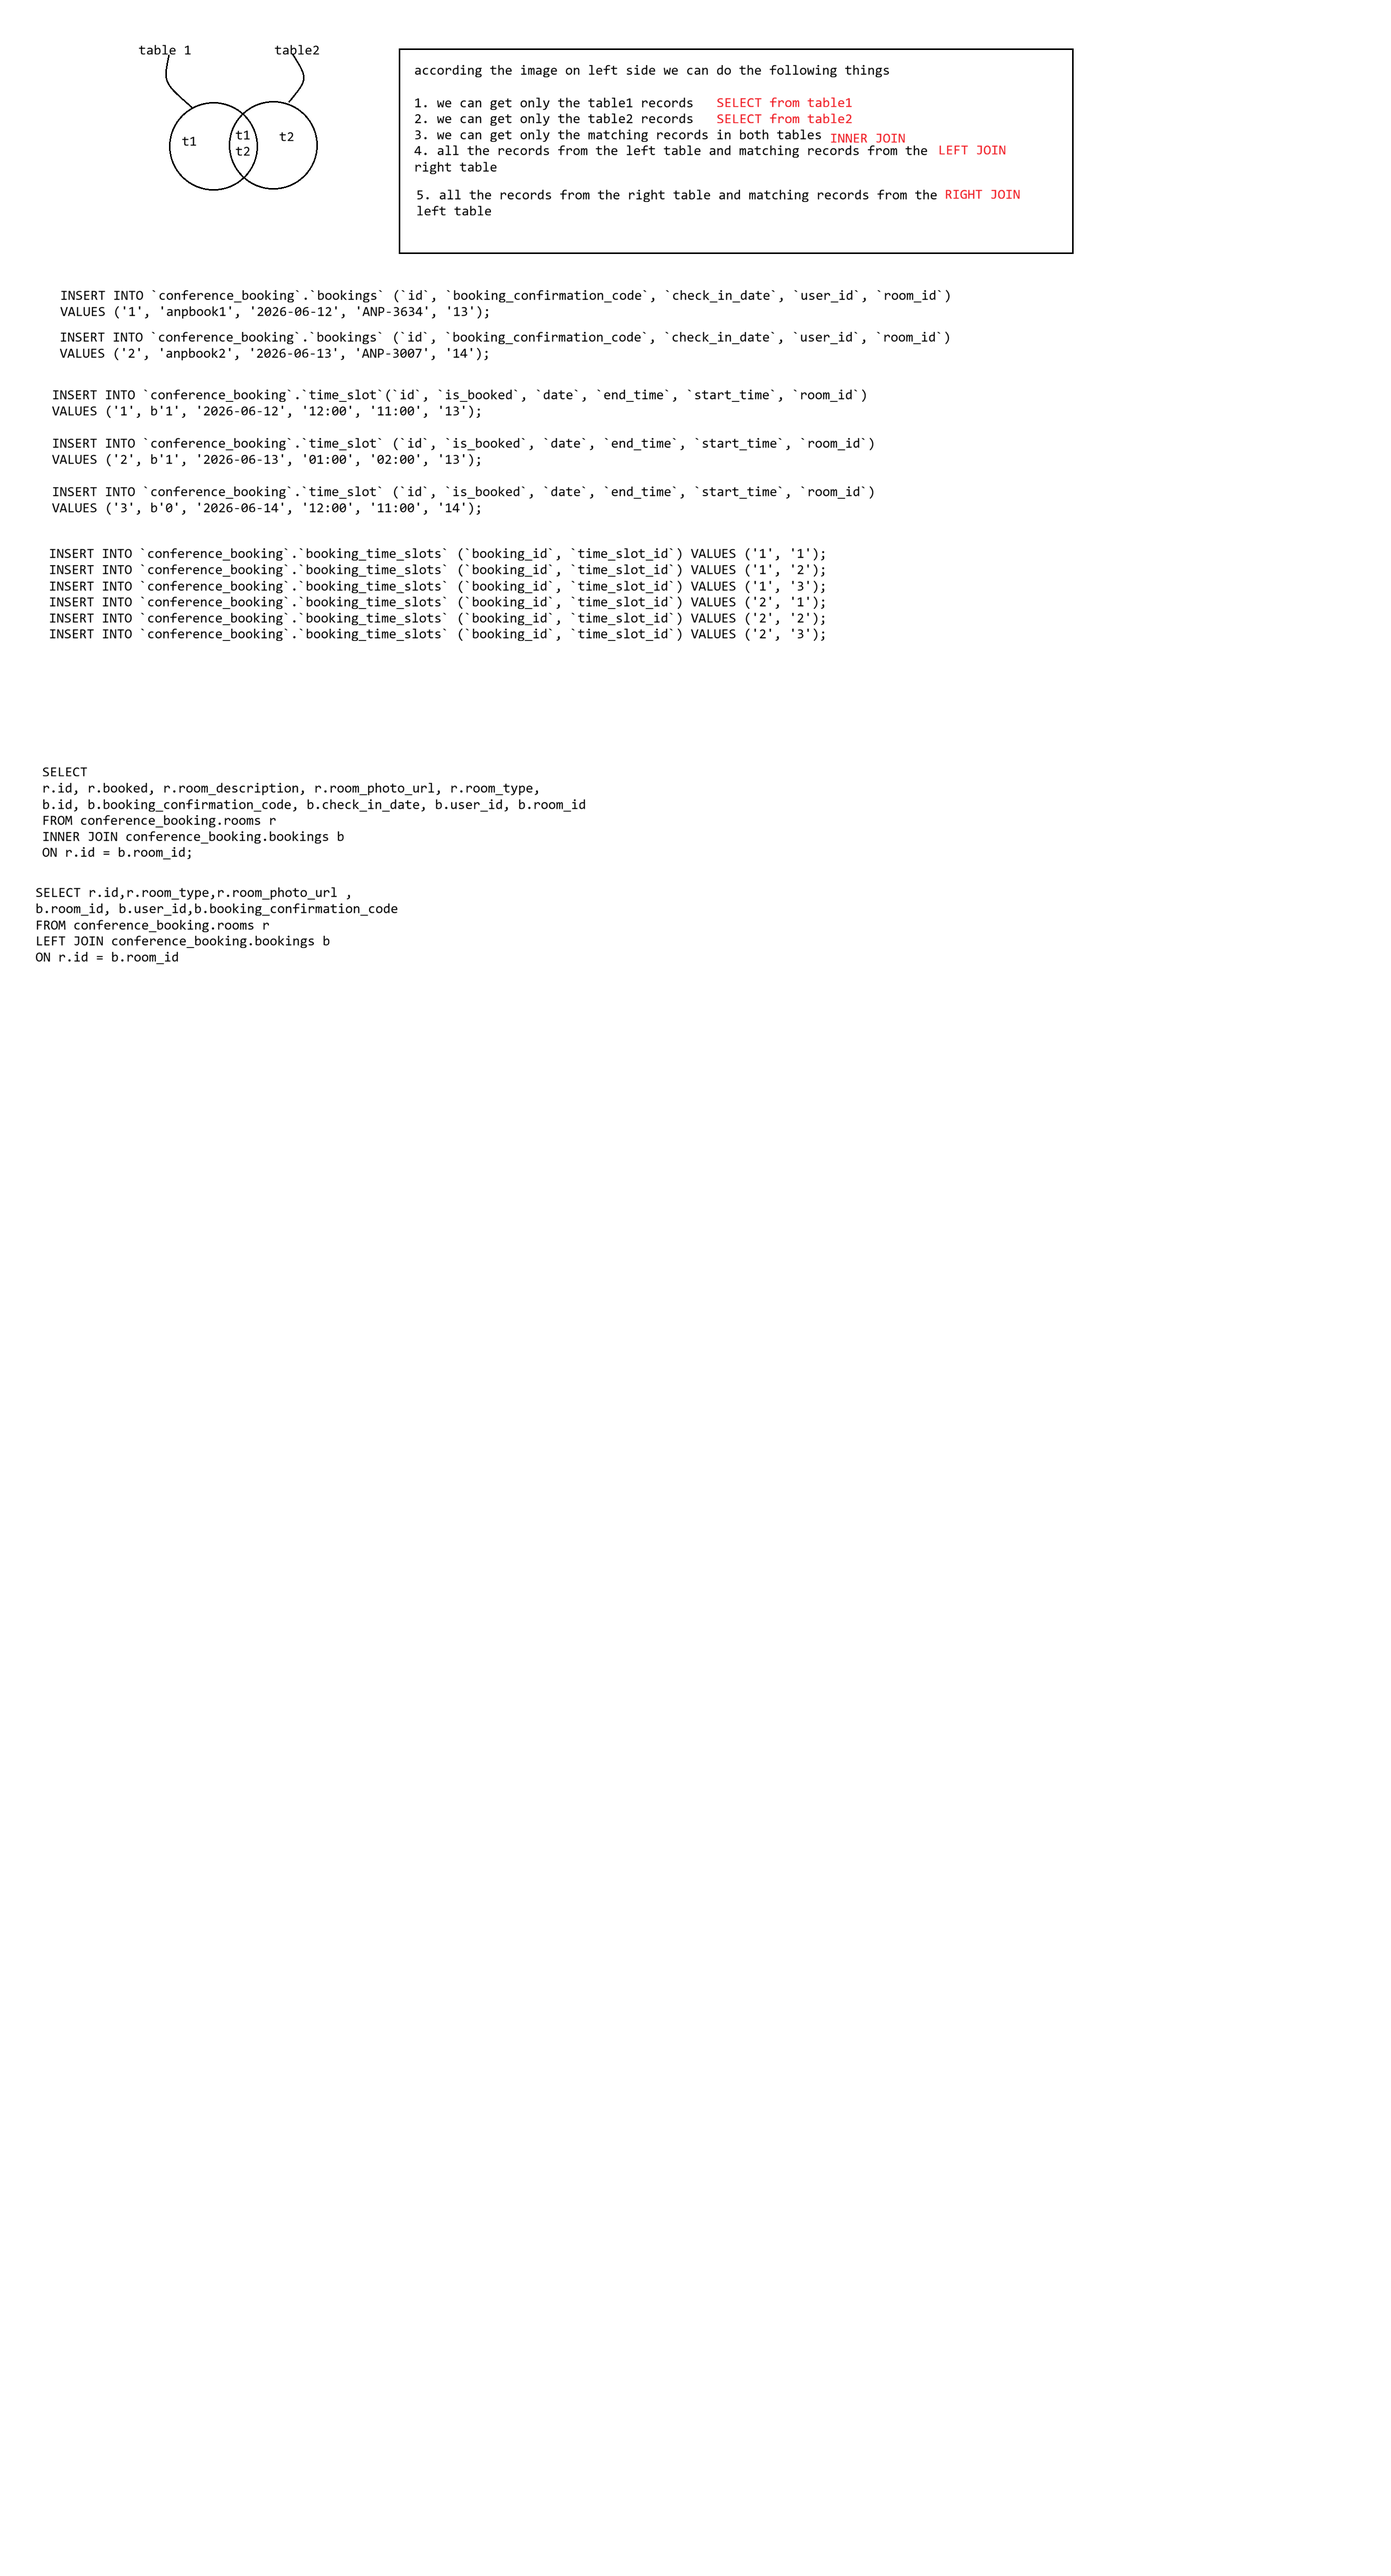
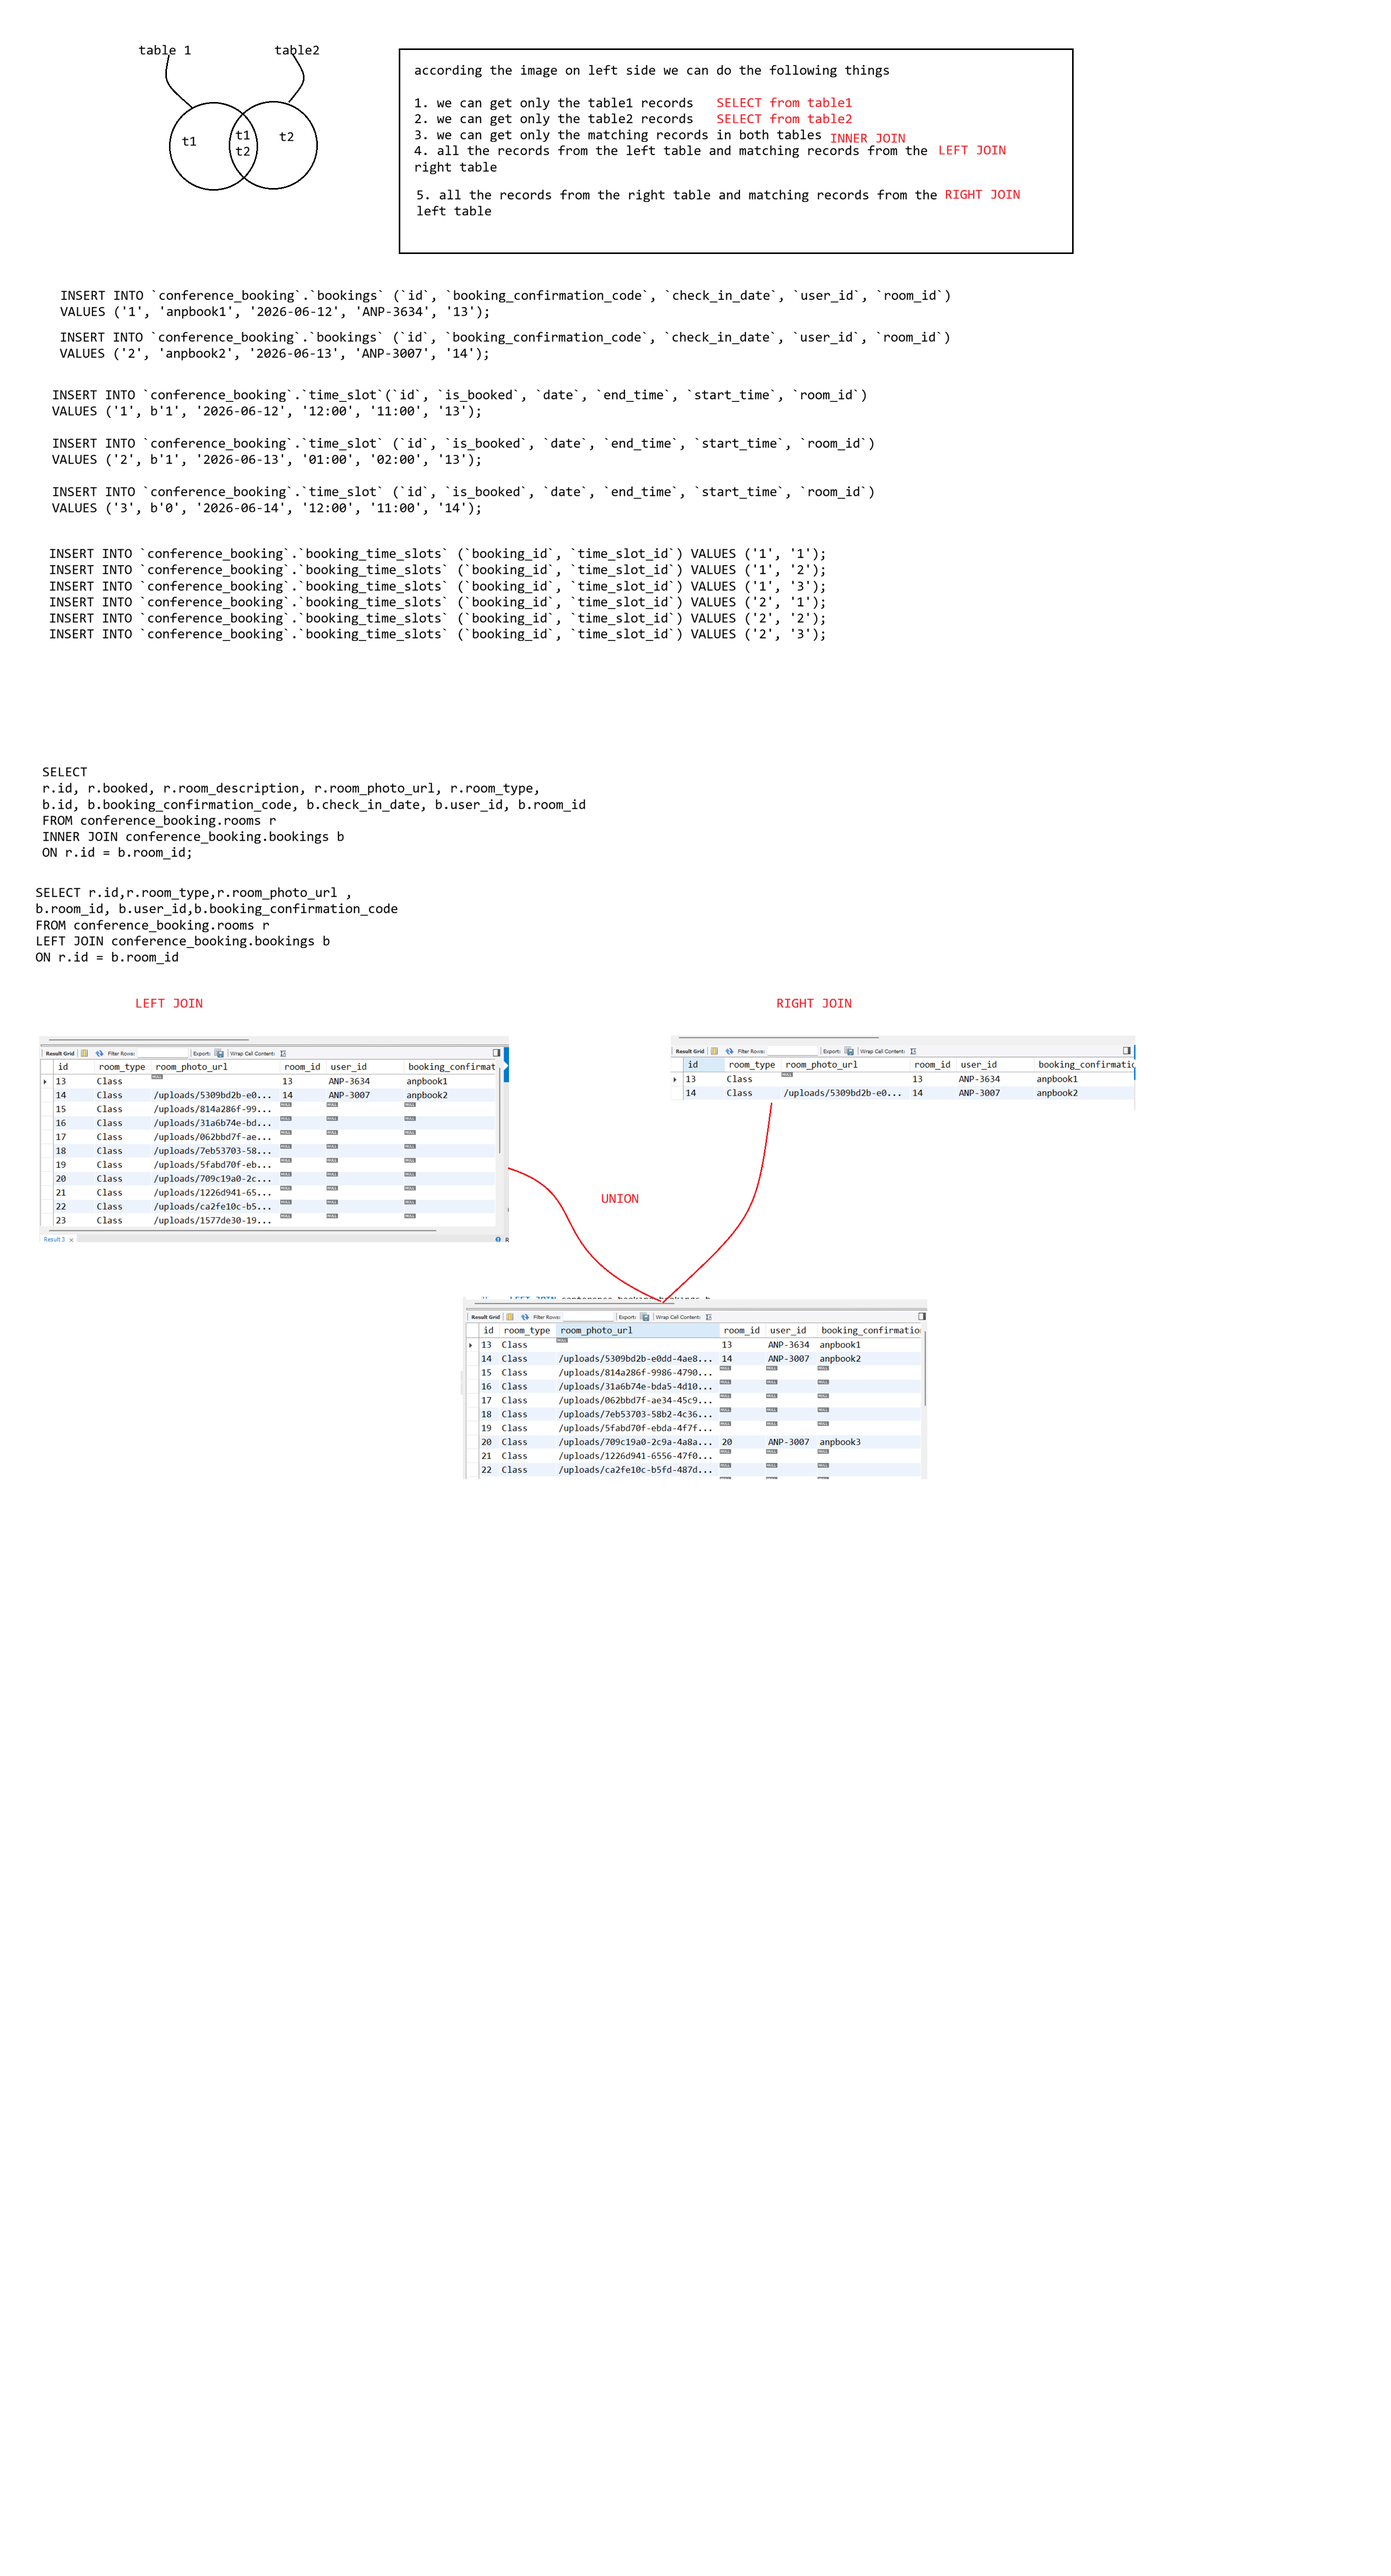
python

diff --git a/Python/intro.py b/Python/intro.py
@@ -1,0 +1,6 @@
+print("Pavan")
+print(2+3);
+print(5-1)
+print(2*2) # 4
+print(2.5 / 1) 
+print(116 % 9 ) # 8

diff --git a/Python/notepad.py b/Python/notepad.py
@@ -1,0 +1,1 @@
+print("Kumar")
